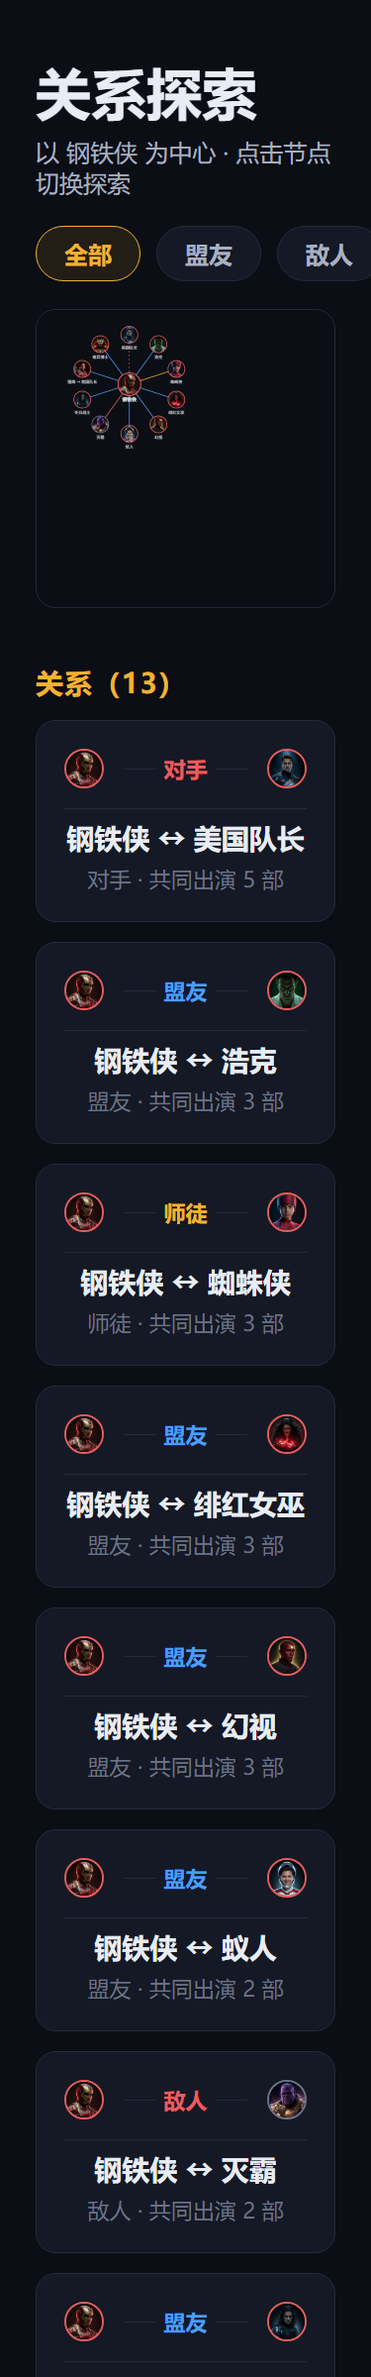
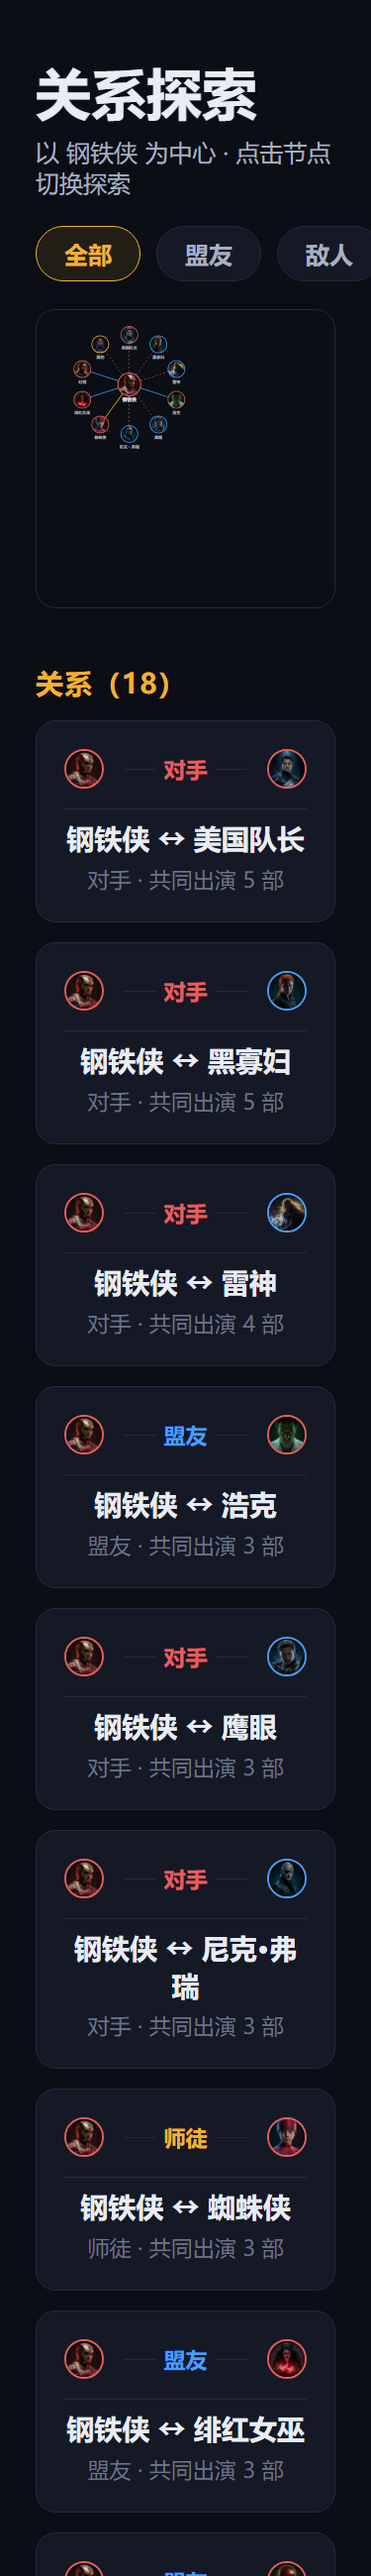
P1 全局统一+专项⑤⑥：①P1清单4项(movie渐变to bottom/explore Canvas背景#080B12/home-bg数据层清理/evc-desc间距)+巡检3处4rpx统一 ⑤数据层12→116条关系(SPECIAL12+同阵营盟友40+跨阵营共演≥2对手,页面结构不变) ⑥routes观影路线Phase序列条(6阶段图CDN,破URL对照验证) ⑦home-bg函数删除零引用；真机测试清单待同步

Changed region(s): [[0.088, 0.25, 0.8213, 1.0], [0.088, 0.0, 0.8213, 0.1875], [0.8213, 0.0312, 0.9387, 0.125]]

diff --git a/mcu-miniprogram/data/visuals.js b/mcu-miniprogram/data/visuals.js
@@ -4,9 +4,9 @@
  * 来源：H5 mcu-navigator/data/{posters,stills}.js（唯一可信源，机械适配）
  * 入口：
  *   visual(id)   → { poster, backdrop }      电影海报 + 剧照
- *   avatar(id)   → 角色头像路径（本地）
- *   phase(n)     → 阶段代表图路径（本地），n = 1~6
- *   homeBg()     → 首页背景图路径（本地）
+ *   avatar(id)   → 角色头像路径（CDN）
+ *   phase(n)     → 阶段代表图路径（CDN），n = 1~6
+ *   heroBanner() → Hero Banner 背景（CDN）
  *
  * V1.2 资源接入（2026-08-26）：
  *   - 38 张海报 + 38 张剧照 → CloudBase 静态托管（CDN）
@@ -150,9 +150,6 @@ const phases = {
   6: LOCAL + '/phases/phase-6.jpg'
 };
 
-/* ── 首页背景（本地资源） ── */
-const homeBackground = LOCAL + '/backgrounds/home-bg.jpg';
-
 /* ── Hero Banner（首页沉浸式入口，V1.2 VDS 新增） ── */
 const heroBannerImg = LOCAL + '/hero/hero-banner.jpg';
 
@@ -197,14 +194,6 @@ function phase(n) {
 }
 
 /**
- * 首页背景图
- * @returns {string}
- */
-function homeBg() {
-  return homeBackground;
-}
-
-/**
  * Hero Banner（首页沉浸式入口背景）
  * @returns {string}
  */
@@ -221,4 +210,4 @@ function entryBg(key) {
   return (key && entryBgs[key]) ? entryBgs[key] : null;
 }
 
-module.exports = { visual, avatar, phase, homeBg, heroBanner, entryBg, posters, stills, avatars, phases, entryBgs };
+module.exports = { visual, avatar, phase, heroBanner, entryBg, posters, stills, avatars, phases, entryBgs };

diff --git a/mcu-miniprogram/workspace/routes_phase_strip.html b/mcu-miniprogram/workspace/routes_phase_strip.html
@@ -1,0 +1,1 @@
+<html><head><meta charset=utf-8><style>body{background:#0B0E14;font-family:sans-serif;width:375px;color:#E8ECF4;padding:36px}.strip{display:flex;gap:8px}.cell{display:flex;flex-direction:column;align-items:center;gap:4px}.img{width:96px;height:52px;border-radius:6px;object-fit:cover;border:1px solid #2A3447}.label{font-size:11px;color:#A8B0C0}</style></head><body><div class=strip><div class=cell><img class=img src="https://mcu-d6gw0brqoa9521b58-1307093647.tcloudbaseapp.com/assets/phases/phase-1.jpg"/><div class=label>P1</div></div><div class=cell><img class=img src="https://mcu-d6gw0brqoa9521b58-1307093647.tcloudbaseapp.com/assets/phases/phase-2.jpg"/><div class=label>P2</div></div><div class=cell><img class=img src="https://mcu-d6gw0brqoa9521b58-1307093647.tcloudbaseapp.com/assets/phases/phase-3.jpg"/><div class=label>P3</div></div><div class=cell><img class=img src="https://mcu-d6gw0brqoa9521b58-1307093647.tcloudbaseapp.com/assets/phases/phase-4.jpg"/><div class=label>P4</div></div><div class=cell><img class=img src="https://mcu-d6gw0brqoa9521b58-1307093647.tcloudbaseapp.com/assets/phases/phase-5.jpg"/><div class=label>P5</div></div><div class=cell><img class=img src="https://mcu-d6gw0brqoa9521b58-1307093647.tcloudbaseapp.com/assets/phases/phase-6.jpg"/><div class=label>P6</div></div></div></body></html>

diff --git a/mcu-miniprogram/pages/explore/explore.js b/mcu-miniprogram/pages/explore/explore.js
@@ -82,12 +82,15 @@ function coCount(aId, bId) {
   return fa.filter(function (f) { return setB[f.id]; }).length;
 }
 
-/* 关系类型判定（VDS §5.4）：predefined 优先 → 同阵营=盟友 → 不同阵营=null */
+/* 关系类型判定（VDS §5.4 + GPT 2026-08-26 数据层扩充授权）：
+   predefined 优先 → 同阵营=盟友 → 跨阵营高频共演(≥2部)=对手(rival，竞争非敌对) → 其余 null */
 function relationOf(a, b) {
   const pre = specialMap[a + '|' + b];
   if (pre) return pre;
   const ca = mcuData.getChar(a), cb = mcuData.getChar(b);
-  if (ca && cb && ca.camp === cb.camp) return 'ally';
+  if (!ca || !cb) return null;
+  if (ca.camp === cb.camp) return 'ally';
+  if (coCount(a, b) >= 2) return 'rival';
   return null;
 }
 
@@ -202,9 +205,9 @@ Page({
     if (!center) return;
     const centerCamp = campOf(center.camp);
 
-    /* 背景 */
+    /* 背景（P1-2：与 --bg #080B12 完全一致） */
     ctx.clearRect(0, 0, W, H);
-    ctx.fillStyle = '#0B0E14';
+    ctx.fillStyle = '#080B12';
     ctx.fillRect(0, 0, W, H);
 
     /* 中心 + 邻居布局：中心居中，邻居绕圆形分布 */

diff --git a/mcu-miniprogram/workspace/gen_explore_vds.js b/mcu-miniprogram/workspace/gen_explore_vds.js
@@ -20,7 +20,7 @@ const CAMP = { avengers:'red', asgard:'blue', guardians:'purple', wakanda:'gold'
 const CAMP_COLOR = { red:'#E85D5D', blue:'#4A9EF5', purple:'#9B7FE8', gold:'#F2B233', gray:'#6B7384' };
 const heroOf = cn => { const p=(cn||'').split(' / '); return p.length>1?p[1].trim():(cn||''); };
 function co(a,b){ const fa=mcuData.filmsOfChar(a),fb=mcuData.filmsOfChar(b); if(!fa.length||!fb.length)return 0; const s={}; fb.forEach(f=>s[f.id]=1); return fa.filter(f=>s[f.id]).length; }
-function relOf(a,b){ const p=sp[a+'|'+b]; if(p)return p; const ca=mcuData.getChar(a),cb=mcuData.getChar(b); if(ca&&cb&&ca.camp===cb.camp)return 'ally'; return null; }
+function relOf(a,b){ const p=sp[a+'|'+b]; if(p)return p; const ca=mcuData.getChar(a),cb=mcuData.getChar(b); if(!ca||!cb)return null; if(ca.camp===cb.camp)return 'ally'; if(co(a,b)>=2)return 'rival'; return null; }
 function relsOf(id){ const out=[]; CHARACTERS.forEach(c=>{ if(c.id===id)return; const t=relOf(id,c.id); if(!t)return; out.push({id:c.id,type:t,shared:co(id,c.id)}); }); out.sort((a,b)=>b.shared-a.shared); return out; }
 
 const CENTER = 'tony';

diff --git a/mcu-miniprogram/pages/movie/movie.js b/mcu-miniprogram/pages/movie/movie.js
@@ -217,8 +217,8 @@ Page({
       posterClass: 'poster-p' + phase,
       posterLetter: (m.cn || '').charAt(0),
       heroBg: (v.backdrop)
-        ? 'background-image: linear-gradient(160deg, ' + hexToRgba(phaseColor, 0.38) + ' 0%, ' + hexToRgba(phaseColor, 0.12) + ' 42%, var(--bg) 100%), url(\"' + v.backdrop + '\"); background-size: cover; background-position: center;'
-        : 'background: linear-gradient(160deg, ' + hexToRgba(phaseColor, 0.08) + ', transparent 50%, var(--bg));',
+        ? 'background-image: linear-gradient(to bottom, ' + hexToRgba(phaseColor, 0.38) + ' 0%, ' + hexToRgba(phaseColor, 0.12) + ' 42%, var(--bg) 100%), url(\"' + v.backdrop + '\"); background-size: cover; background-position: center;'
+        : 'background: linear-gradient(to bottom, ' + hexToRgba(phaseColor, 0.08) + ', transparent 50%, var(--bg));',
       cn: m.cn,
       en: m.en || '',
       phaseText: '第' + cnPhase(phase) + '阶段' + (m.year ? ' · ' + m.year : ''),

diff --git a/mcu-miniprogram/pages/routes/routes.js b/mcu-miniprogram/pages/routes/routes.js
@@ -43,10 +43,16 @@ Page({
       { key: 'topic', label: '专题路线' }
     ],
     current: null,   // 当前路线进度卡
-    list: []         // 当前 Tab 下的路线卡
+    list: [],        // 当前 Tab 下的路线卡
+    phases: []       // 专项⑥：Phase 导航序列（阶段图辅助视觉，纯展示）
   },
 
-  onLoad: function () { this.refresh(); },
+  onLoad: function () {
+    this.phases = [1, 2, 3, 4, 5, 6].map(function (n) {
+      return { n: n, img: mcuData.phase(n) || '' };
+    });
+    this.refresh();
+  },
   onShow: function () { this.refresh(); },
 
   refresh: function () {
@@ -98,7 +104,7 @@ Page({
         return c;
       });
 
-    this.setData({ current: current, list: list });
+    this.setData({ current: current, list: list, phases: this.phases || [] });
   },
 
   switchTab: function (e) {

diff --git a/mcu-miniprogram/models/mcuData.js b/mcu-miniprogram/models/mcuData.js
@@ -167,12 +167,7 @@ const data = {
     return visuals.avatar(charId);
   },
 
-  /* 首页背景图（V1.2 资源接入：home-bg.jpg 本地） */
-  homeBg: function () {
-    return visuals.homeBg();
-  },
-
-  /* Hero Banner（VDS V2：hero-banner.jpg 本地） */
+  /* Hero Banner（VDS V2：hero-banner.jpg） */
   heroBanner: function () {
     return visuals.heroBanner();
   },
